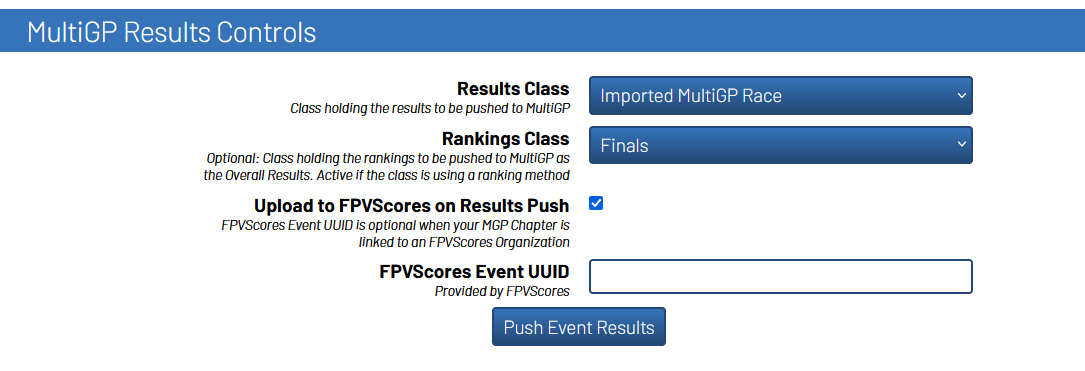
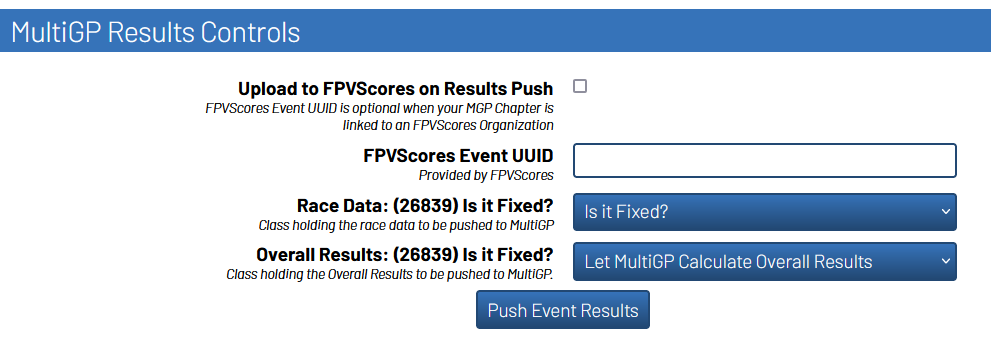
doc changes

Changed region(s): [[0.1816, 0.2029, 0.9687, 0.6667], [0.2119, 0.6957, 0.9687, 0.9565], [0.0, 0.058, 1.0, 0.1739]]

diff --git a/RHmanager.py b/RHmanager.py
@@ -810,7 +810,7 @@ class RHmanager(UImanager):
     # Push class ranking
     def push_bracketed_rankings(self, selected_mgp_race, selected_rh_class):
 
-        if selected_rh_class == "":
+        if selected_rh_class == "" or selected_rh_class is None:
             return
 
         results = []

diff --git a/docs/usage/pushing/index.rst b/docs/usage/pushing/index.rst
@@ -22,38 +22,6 @@ MultiGP Results Controls Panel
     :alt: Results Control Panel
     :align: center
 
-Results Class
-^^^^^^^^^^^^^^^^^^^^^^^^^^^^^^^^^
-
-This drop-down selector is used to select the class to use for the race results on MultiGP's website.
-
-.. image:: mgp_results.png
-    :width: 500
-    :alt: MultiGP Results
-    :align: center
-
-Rankings Class
-^^^^^^^^^^^^^^^^^^^^^^^^^^^^^^^^^
-
-This drop-down selector is used to select the class to use for the ``Overall Results`` on MultiGP's website under 
-the ``Update Scores`` setting for your race.
-
-.. image:: mgp_rankings.png
-    :width: 500
-    :alt: MultiGP Rankings
-    :align: center
-
-.. note::
-
-    The use of this setting will require you to select a race that does **NOT** use the ``From Race Format`` 
-    setting, otherwise, it will be skipped and MultiGP will automatically calculate the rankings based
-    on the race format.
-
-    .. image:: rh_ranking.png
-        :width: 500
-        :alt: RotorHazard Ranking
-        :align: center
-
 FPVScores Settings
 ^^^^^^^^^^^^^^^^^^^^^^^^^^^^^^^^^
 
@@ -66,12 +34,46 @@ There are two FPVScores related settings under the ``MultiGP Results Controls`` 
 See the table showing the mapped functionality of the :ref:`MultiGP 
 Toolkit's Ability to Upload to FPVScores <fpvscores table>`.
 
+Race Data
+^^^^^^^^^^^^^^^^^^^^^^^^^^^^^^^^^
+
+This drop-down selector is used to select the class to use for the race data on MultiGP's website.
+
+.. image:: mgp_results.png
+    :width: 500
+    :alt: MultiGP Results
+    :align: center
+
+Overall Results
+^^^^^^^^^^^^^^^^^^^^^^^^^^^^^^^^^
+
+This drop-down selector is used to select the class to use for the ``Overall Results`` on MultiGP's website under 
+the ``Update Scores`` setting for your race.
+
+.. image:: mgp_rankings.png
+    :width: 500
+    :alt: MultiGP Rankings
+    :align: center
+
+.. note::
+
+    This setting has slightly different functionality depending on how the selected class is setup.
+    
+    - If the selected class has a custom ranking activated (``From Race Format`` is considered the ``OFF`` switch), then that generated ranking will be pushed to MultiGP.
+    - Otherwise, the results based on the win condition of the race format within RotorHarzard will be used
+    - If this option is set to ``Let MultiGP Calculate Overall Results``, the Toolkit will **not** push ``Overall Results`` to MultiGP 
+
+    .. image:: rh_ranking.png
+        :width: 500
+        :alt: RotorHazard Ranking
+        :align: center
+
 Pushing Global Qualifier Results
 ----------------------------------
 
 When running a Global Qualifier, you will be limited to only having the ability to
-use the ``Push Event Results`` button. When this button is used, the results of
-the imported MultiGP class will be pushed to MultiGP and FPVScores. You will need to
+use the ``Push Event Results`` button. When this button is used, the data and results of
+the imported MultiGP event will be pushed to MultiGP and FPVScores. You will need to
 use this button at least once for your Global Qualifier results to be considered valid.
 
 .. image:: gq_panel.png

diff --git a/docs/index.rst b/docs/index.rst
@@ -11,6 +11,28 @@ MultiGP Toolkit plugin for RotorHazard
    :alt: MultiGP Logo
    :align: center
 
+
+
+This is a plugin developed with cooperation from MultiGP for the `RotorHazard <https://github.com/RotorHazard/RotorHazard>`_ timing system. It gives RotorHazard the ability interface with MultiGP's RaceSync system for event management.
+
+This plugin comes packaged with a lite version of `FPVScores plugin <https://github.com/FPVScores/FPVScores>`_ allowing you to push your event results without the need to install the full version.
+
+General Requirements
+---------------------------
+- RotorHazard v4.1+ is required to run this plugin
+   - When running a Global Qualifer, v|project_version| of the MultiGP Toolkit requires `RotorHazard v4.1.0-beta <https://github.com/RotorHazard/RotorHazard/releases/tag/v4.1.0-beta.2>`_ to be used.
+- You will need your MultiGP Chapter's API key
+- An internet connection when pushing data to or pulling data from MultiGP
+
+.. note::
+
+   An internet connection is **not** required for running the event, unless ZippyQ is being used
+
+General Requirements
+---------------------------
+
+Please reach out in the `RotorHarzard discord server <https://discord.gg/ANKd2pzBKH>`_ for support.
+
 .. toctree::
    :maxdepth: 1
    :caption: Contents:
@@ -22,22 +44,3 @@ MultiGP Toolkit plugin for RotorHazard
    usage/zippyq/index
    usage/running/index
    usage/pushing/index
-
-.. warning::
-
-   Please be aware that this plugin is not approved for MultiGP Global Qualifers
-
-This is a plugin developed with cooperation with MultiGP for the RotorHazard timing system. It gives RotorHazard the ability interface with MultiGP's RaceSync system for event management.
-
-This plugin comes packaged with a mini version of `FPVScores plugin <https://github.com/FPVScores/FPVScores>`_ allowing you to push your event results without the need to install the full version.
-
-General Requirements
----------------------------
-- RotorHazard v4.1+ is required to run this plugin
-   - Stricter RotorHazard version requirements are enforced for running Global Qualifers
-- You will need your MultiGP Chapter's API key
-- An internet connection when pushing or pulling data from MultiGP
-
-.. note::
-
-   An internet connection is **not** required for running the event, unless ZippyQ is being used

diff --git a/README.md b/README.md
@@ -1,31 +1,29 @@
 # MultiGP Toolkit plugin for RotorHazard
 
-> [!WARNING]
-> Please be aware that this plugin is not approved for MultiGP Global Qualifers 
-
 ![MultiGP](docs/multigp-logo.png)
 
 ## Plugin Documentation
 
 [![Documentation Status](https://readthedocs.org/projects/multigp-toolkit/badge/?version=latest)](https://multigp-toolkit.readthedocs.io/en/latest/?badge=latest)
 
-> [!WARNING]
-> The linked documentation is for the `v2.0.0` release of the plugin and not the current `stable` release.
-> The documentation for `v1.2.1` can be found [here](https://github.com/i-am-grub/MultiGP_Toolkit/blob/temp/README.md) temporarily until the offical `v2.0.0` release.
-
 The documentation for this plugin can be found [here](https://multigp-toolkit.readthedocs.io)
+
 ## Plugin Overview
 
-This is a plugin developed with cooperation with MultiGP for the RotorHazard timing system. It gives RotorHazard the ability interface with MultiGP's RaceSync system for event management.
+This is a plugin developed with cooperation from MultiGP for the [RotorHazard](https://github.com/RotorHazard/RotorHazard) timing system. It gives RotorHazard the ability interface with MultiGP's RaceSync system for event management.
 
 This plugin now comes packaged with a mini version of [FPVScores](https://github.com/FPVScores/FPVScores) allowing you to push your event results without the need to install the full version.
 
 ## General Requirements
 
 - RotorHazard v4.1+ is required to run this plugin
-   - Stricter RotorHazard version requirements are enforced for running Global Qualifers
+   - Stricter RotorHazard version requirements are enforced for running Global Qualifers. Please see the current release's documentation for details.
 - You will need your MultiGP Chapter's API key
-- An internet connection when pushing or pulling data from MultiGP
+- An internet connection when pushing data to or pulling data from MultiGP
 
 > [!NOTE]
 > An internet connection is not required for running the event, unless ZippyQ is being used
+
+## Plugin Support
+
+Please reach out in the [RotorHarzard discord server](https://discord.gg/ANKd2pzBKH) for support.

diff --git a/docs/usage/importing/index.rst b/docs/usage/importing/index.rst
@@ -189,7 +189,7 @@ The Toolkit offers support for running multi-race MultiGP events.
 
 In the example above, ``Multi Class Testing`` is the parent event while 
 ``Multi Class Testing - Qual`` and ``Multi Class Testing - Fin`` are child
-races of that event.
+events.
 
 .. image:: rh_multi.png
             :width: 600
@@ -197,14 +197,15 @@ races of that event.
             :align: center
 
 There are two avaliable approach for fully completing the ``Multi Class Testing``
-event with the Toolkit.
+event with the MultiGP Toolkit.
 
-1. Import a child race and run its races. Upon completion of the child race,
-archive it and import the next child race. Repeat this process until all
-the child races have been completed
+1. Import and run a child event as you would for a standard MultiGP event. 
+Upon completion of the child event, archive it and import the next child event. 
+Repeat this process until all the child events have been completed.
 
 2. Import the parent event. The Toolkit will setup a seperate class within
-RotorHazard for each child race under the parent event. This is the
+RotorHazard for each child event. It will also setup the ability to individually
+push your race data and results to each child event. This is the
 recommended approach when running a multi-race event offline.
       
 

diff --git a/docs/usage/running/index.rst b/docs/usage/running/index.rst
@@ -56,7 +56,7 @@ The follow rules will be enforced by the system for a race belonging to
 a class that was generated by importing a ZippyQ race.
 
 - ZippyQ rounds must be ran in the order in which they were created
-- ZippyQ completed rounds cannot be repeated.
+- Completed ZippyQ rounds cannot be repeated.
 
 Global Qualifiers
 ^^^^^^^^^^^^^^^^^^^^^^^^^^^^^^^^^^^^^^^^^^^
